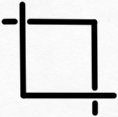
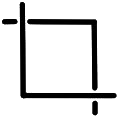
5/5 some css

diff --git a/MixToolz.css b/MixToolz.css
@@ -28,10 +28,9 @@ p{
     max-width: fit-content;
     background-color: rgb(250, 244, 117);
     box-shadow: 10px 20px 10px lemonchiffon inset;
-    
 }
 
-#edit{
+#edit, #icon{
   width: 180px;
   height: 90px;
   border: none;
@@ -39,17 +38,29 @@ p{
   display: inline-flex;
 }
 
+#icon{
+  width: 30px;
+  height: 30px;
+}
+
 #home, #pdf{
-  width: 120px;
-  height: 35px;
+  width: 140px;
+  height: 55px;
   border: none;
-  border-radius: 10%;
-  padding: 0px;
+  border-radius: 10px;
+  padding-top: 10px;
   margin: 5px;
-  background: #353434;
+  background: #f88533;
   color:#f1f1f1;
+  font-family:'Gill Sans', 'Gill Sans MT', Calibri, 'Trebuchet MS', sans-serif;
+  font-size: 20px;
   font-weight: 500;
-  display: inline-flex;
+  justify-content: center;
+  display: inline-flex; 
+}
+
+#home, #pdf:hover{
+  background-color: #ff4a47;
 }
 
 .collapsible {
@@ -273,12 +284,16 @@ tr:nth-child(even) {background-color: #eaeaea;}
   border: 1px solid transparent;
   background-color: #fde360;
   font-size: 16px;
-  transition-duration: .4s;
+  transition-duration: .6s;
   cursor: pointer;
 }
 
 .aspect-ratio li:active{
   border: 1px solid #f5a84a;
+}
+
+.aspect-ratio li:hover{
+  background-color: #f7c78d;
 }
 
 .btn{

diff --git a/MixToolz.html b/MixToolz.html
@@ -33,10 +33,14 @@
         </button>
 
         <button type="button" onclick="location.href='editpdf.html'" id="pdf">
+        <img id="icon" src="MixTooLz Images/Draw.png">
         Draw
         </button>
 
-
+        <button type="button" onclick="location.href='crop.html'" id="pdf">
+        <img id="icon" src="MixTooLz Images/Crop.png">
+        Crop
+        </button>
 
 
 

diff --git a/MixToolz.js b/MixToolz.js
@@ -82,7 +82,7 @@
         canvas.addEventListener("mousemove", draw);
     });
 
-let file_input = document.getElementById("file");
+  let file_input = document.getElementById("file");
   let image = document.getElementById("img");
   let downloadButton = document.getElementById("download");
   let aspectRatio = document.querySelectorAll(".aspect-ratio li");
